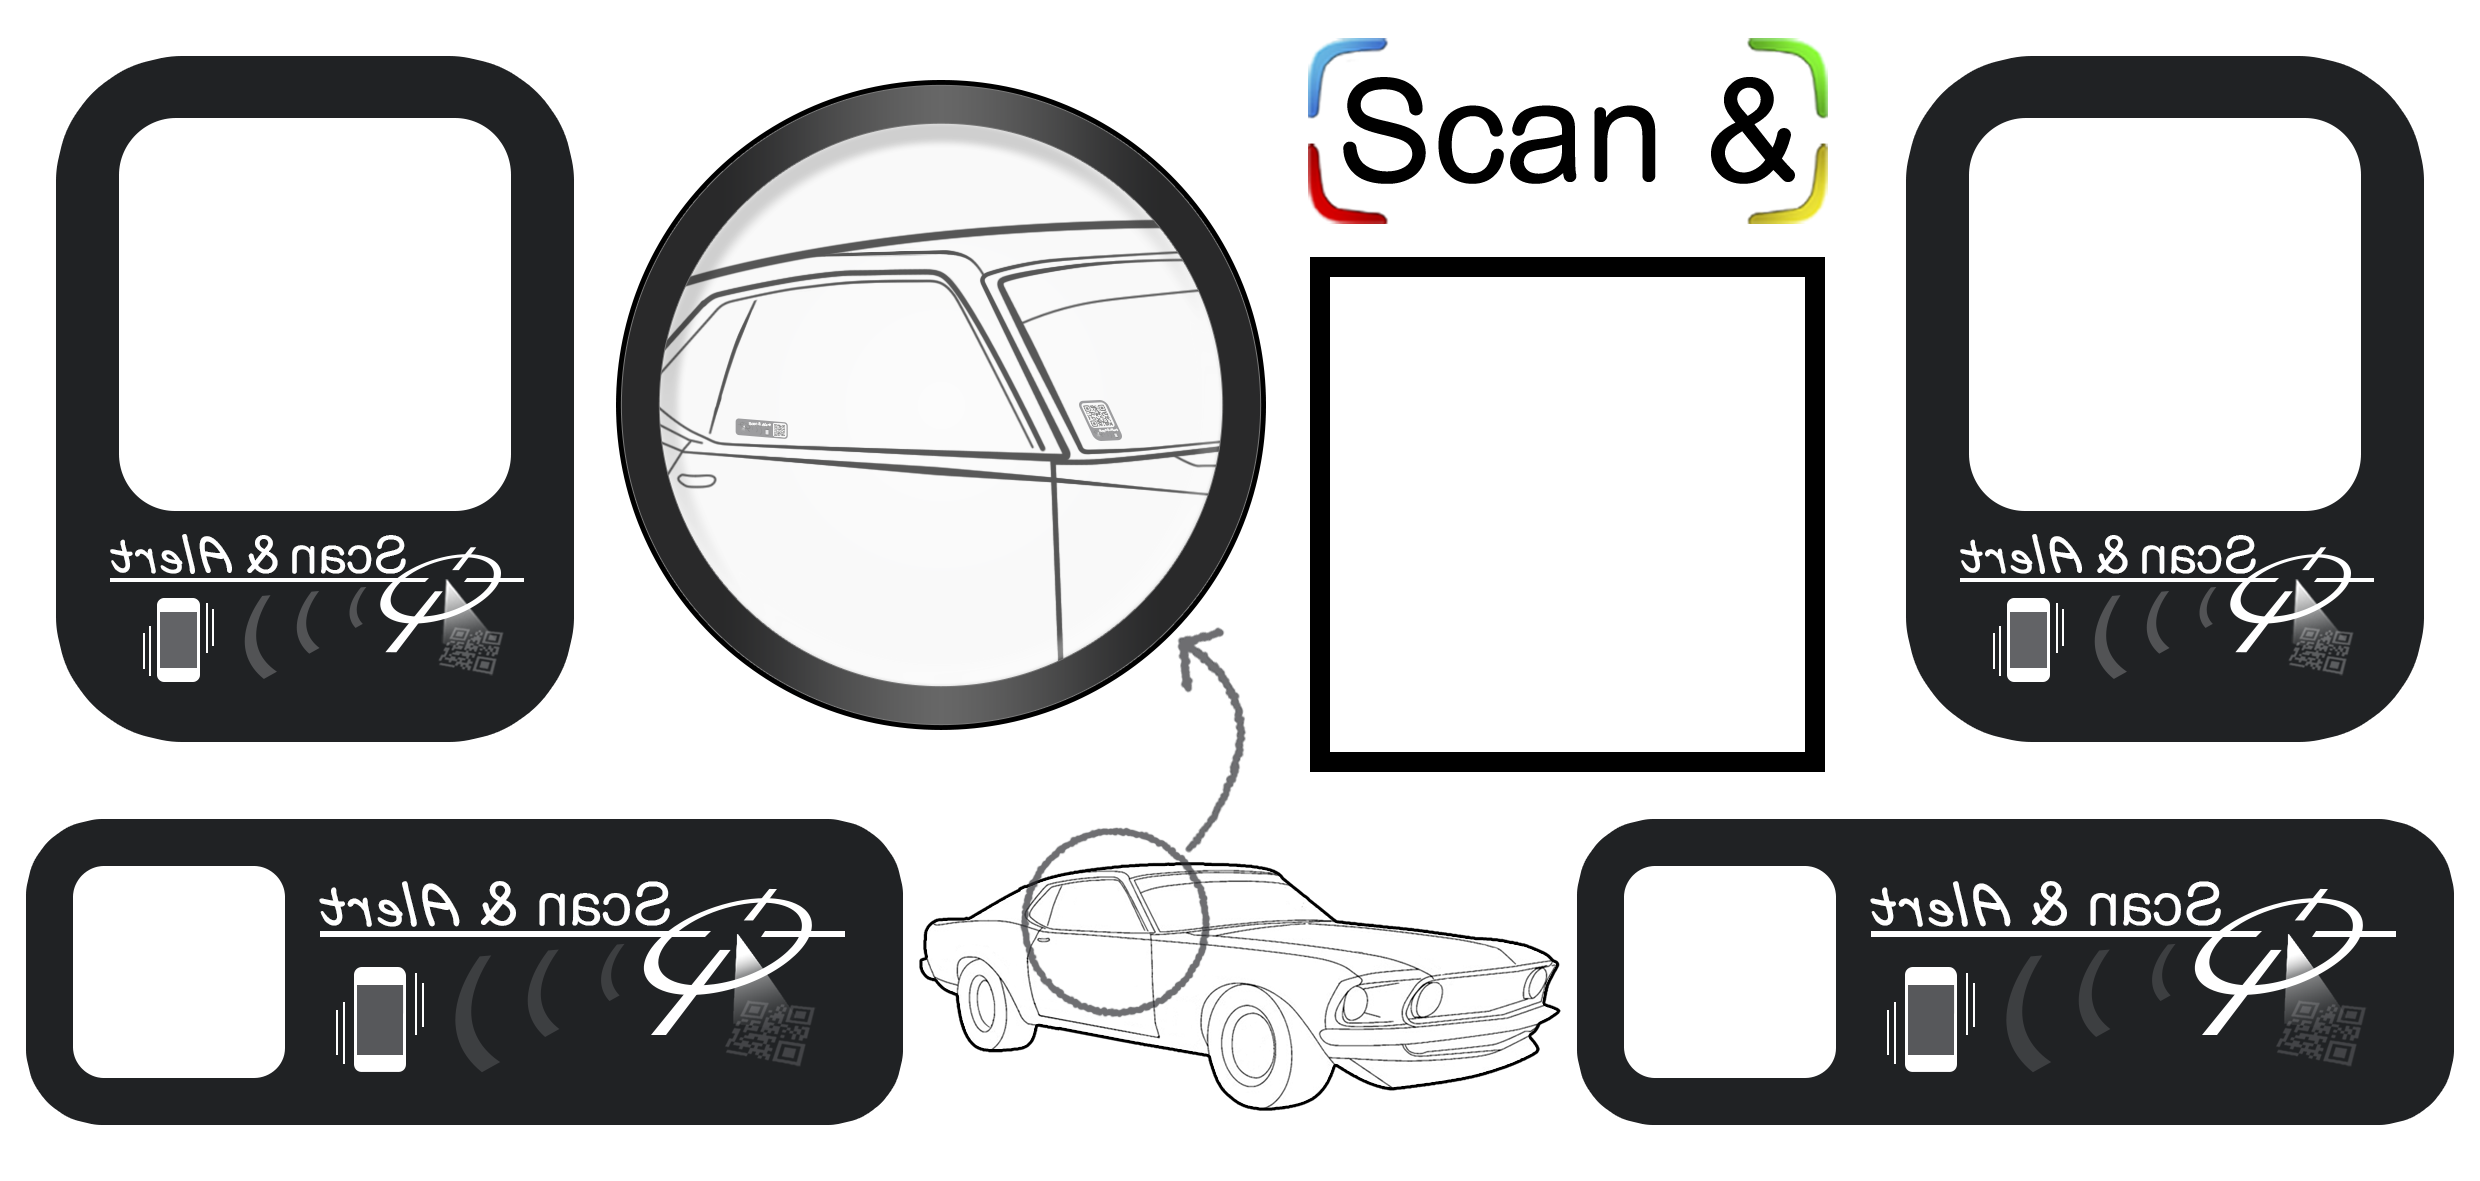
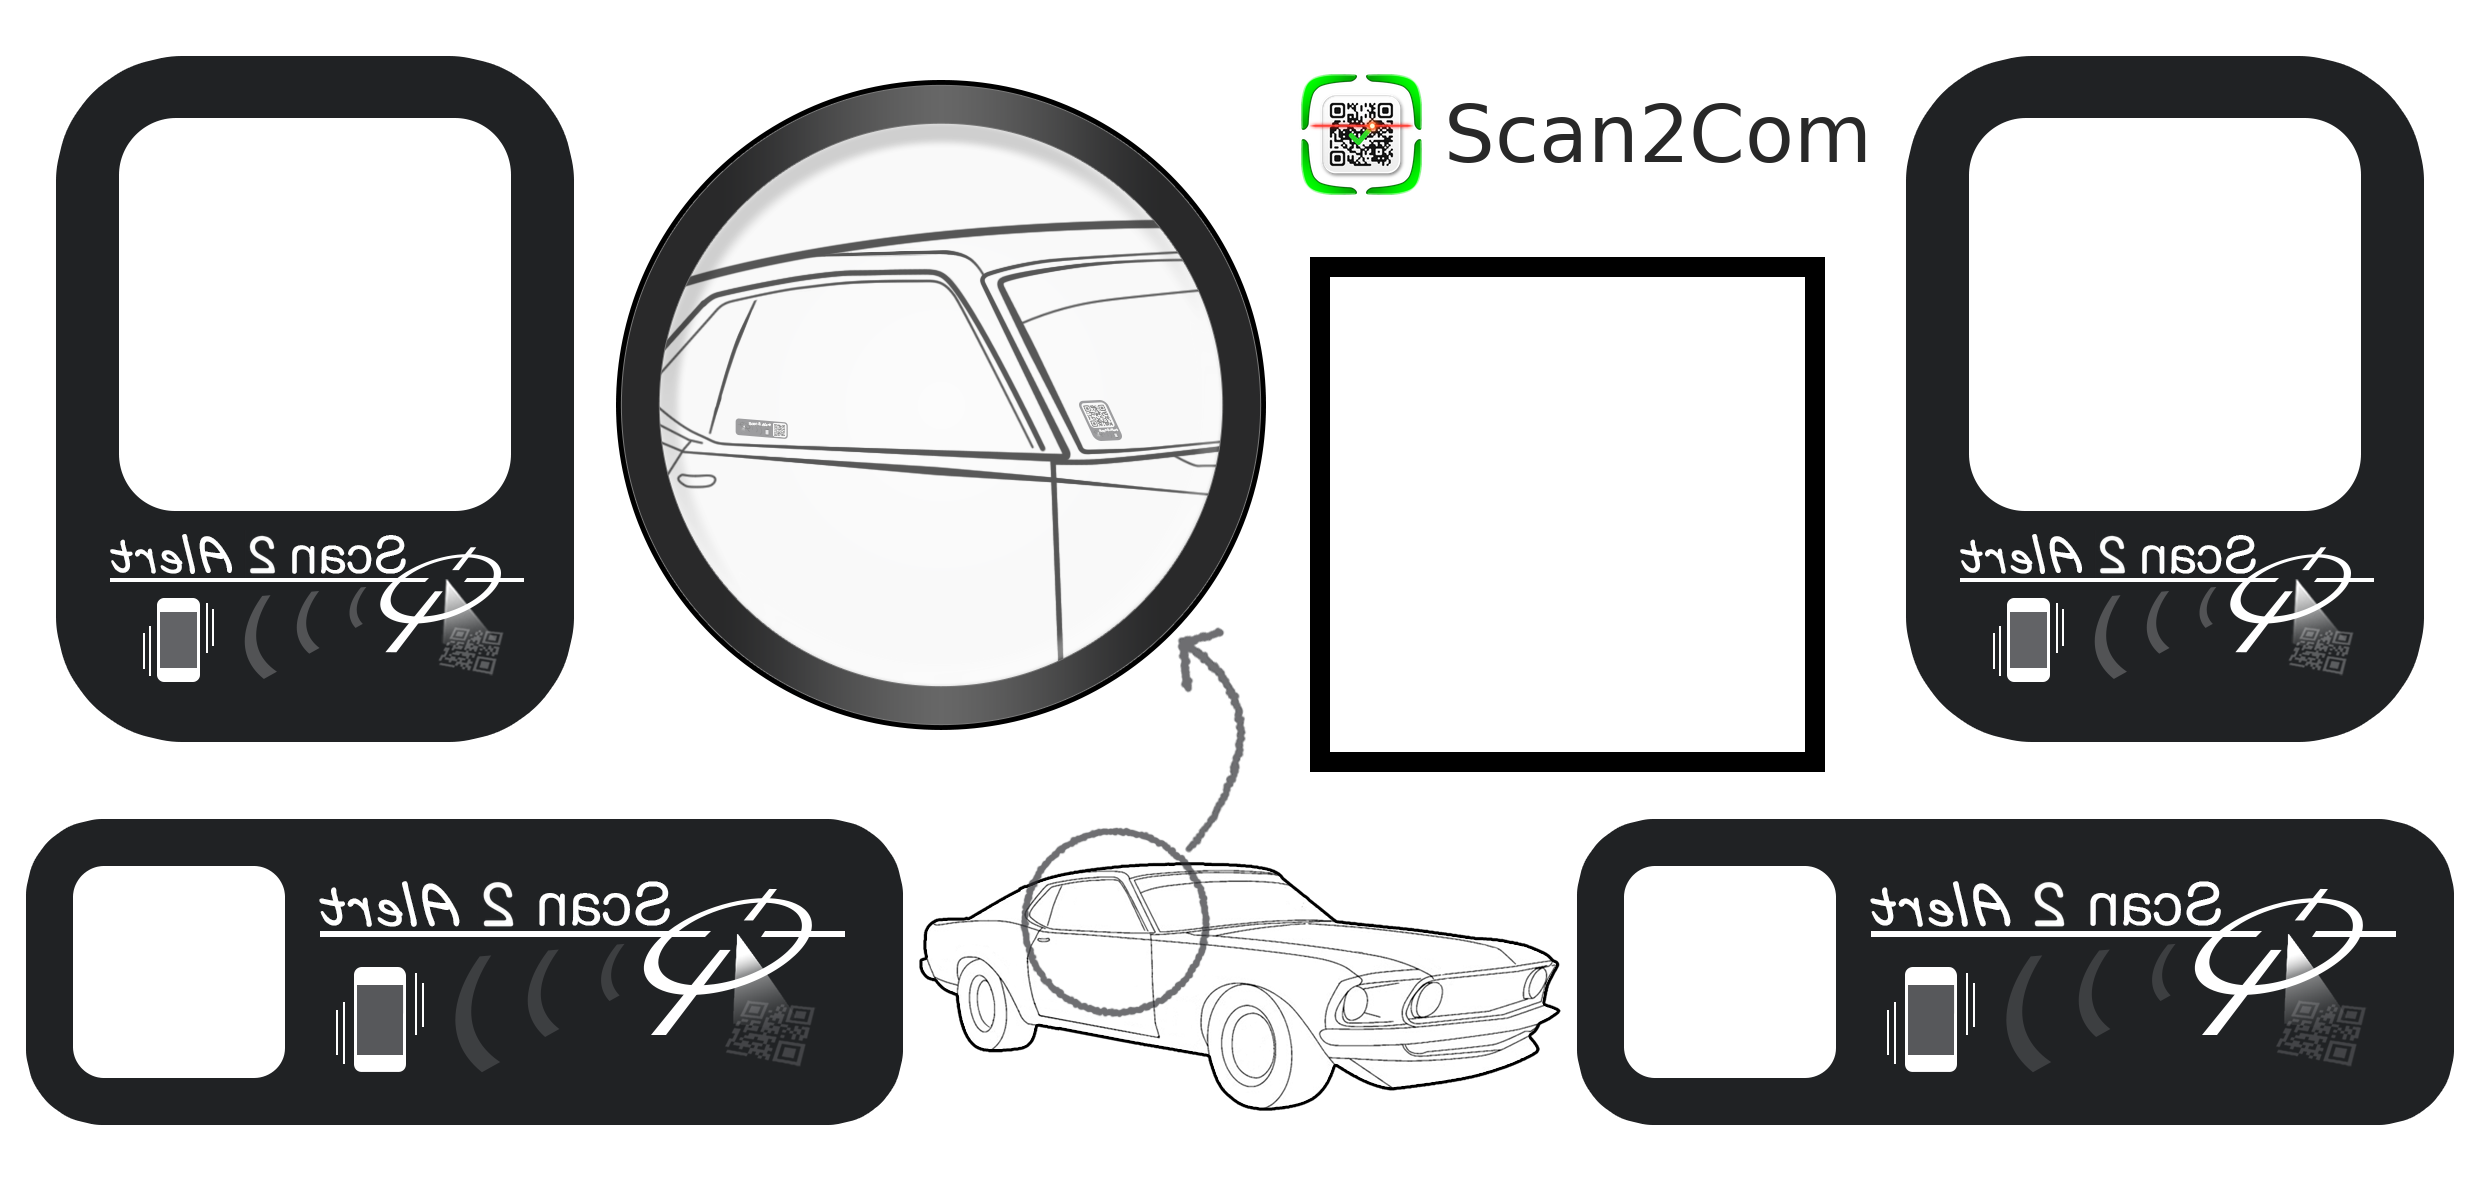
Generador de pegatinas: bases con «Scan 2», tarjeta de muestra/flyer de fondo blanco y PDF A4 con todas las que quepan
Claude-Session: https://claude.ai/code/session_013R8ZDbSoSzqTENUj51F5bM

diff --git a/admin/pegatinas.html b/admin/pegatinas.html
@@ -72,7 +72,7 @@ button.red{background:var(--red)}button.light{background:#e6e8eb;color:var(--ink
   <div id="tool2" hidden>
     <div class="box">
       <div class="row" style="margin-top:0">
-        <select id="pdffmt" style="flex:1;margin:0"><option value="card">PDF tamaño tarjeta (210×100 mm)</option><option value="a4">PDF A4 (2 tarjetas por hoja)</option></select>
+        <select id="pdffmt" style="flex:1;margin:0"><option value="card">PDF tamaño tarjeta (210×100 mm)</option><option value="a4">PDF A4 (todas las que quepan por hoja)</option></select>
         <button id="pdf" disabled>Descargar PDF</button><button class="light" id="csv" disabled>CSV</button>
       </div>
       <div class="hint">Las bases llevan sangre de 1,7–2 mm para el troquel de imprenta. Imprimir al 100 %, 300 ppp.</div>
@@ -99,7 +99,7 @@ const TRO = {
   hoja20: { nombre: 'Hoja 20 códigos (opaca)', base: 'bases/hoja20-opaca.png', kind: 'sheet', stickers: H20.map(([type, x, y, s]) => ({ type, positions: [P(x, y, s)] })), validation: P(1071, 502, 336) },
   'coche-rojo': coche('rojo', 'coche-rojo'), 'coche-gris-claro': coche('gris claro', 'coche-gris-claro'), 'coche-gris-oscuro': coche('gris oscuro', 'coche-gris-oscuro'),
   'coche-azul': coche('azul', 'coche-azul'), 'coche-verde': coche('verde', 'coche-verde'),
-  objid: { nombre: 'Tarjeta ID de objeto (1 código)', base: 'bases/objid.png', kind: 'single', stickers: [{ type: 'link', positions: [P(1493, 164, 204)] }], validation: P(863, 69, 397) }
+  flyer: { nombre: 'Tarjeta de muestra / flyer (1 código)', base: 'bases/flyer.png', kind: 'single', stickers: [{ type: 'link', positions: [P(1493, 164, 204)] }], validation: P(863, 69, 397) }
 };
 $('#tro').innerHTML = Object.entries(TRO).map(([k, t]) => `<option value="${k}">${esc(t.nombre)}</option>`).join('');
 
@@ -212,7 +212,12 @@ $('#pdf').onclick = async () => {
   const doc = a4 ? new jsPDF({ unit: 'mm', format: 'a4' }) : new jsPDF({ unit: 'mm', format: [210, 100], orientation: 'landscape' });
   for (const [i, it] of S.items.entries()) {
     const cv = await renderCard(it.tk, it.pack, it.codes, $('#est').value, it.muestra), w = cv.width / 300 * 25.4, h = cv.height / 300 * 25.4;
-    if (a4) { if (i && i % 2 === 0) doc.addPage(); doc.addImage(cv, 'PNG', (210 - w) / 2, 25.4 + (i % 2) * (h + 25.4), w, h, undefined, 'FAST'); }
+    if (a4) {  // tantas como quepan en el A4 (2 hojas de 210×100, 6 tarjetas de muestra…), repartidas con el mismo hueco
+      const g = 3, cols = Math.max(1, Math.floor((210 - g) / (w + g))), rows = Math.max(1, Math.floor((297 - g) / (h + g))), per = cols * rows, k = i % per;
+      if (i && k === 0) doc.addPage();
+      const gx = (210 - cols * w) / (cols + 1), gy = (297 - rows * h) / (rows + 1);
+      doc.addImage(cv, 'PNG', gx + (k % cols) * (w + gx), gy + Math.floor(k / cols) * (h + gy), w, h, undefined, 'FAST');
+    }
     else { if (i) doc.addPage([w, h], w > h ? 'landscape' : 'portrait'); doc.addImage(cv, 'PNG', 0, 0, w, h, undefined, 'FAST'); }
     setProg((i + 1) / S.items.length); setMsg(`PDF: ${i + 1}/${S.items.length}…`);
   }
